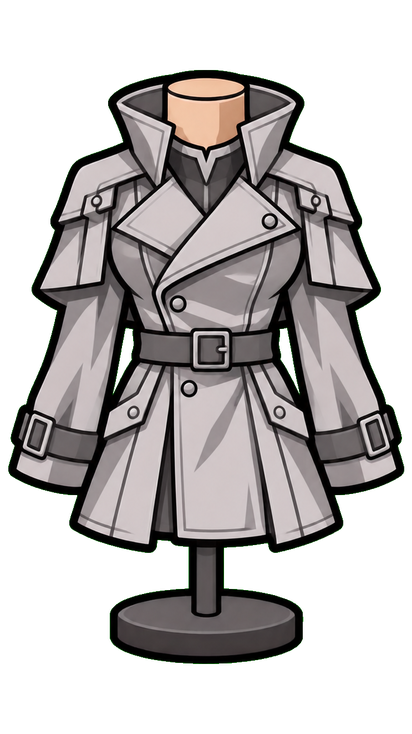
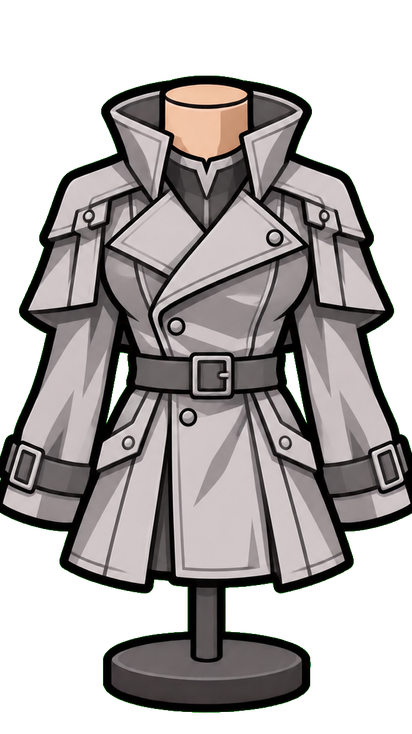
시지프 재단대: 새 옷 그림의 마네킹 크기·받침대 위치를 받침대 폭 기준으로 일정하게 맞춤

diff --git a/tools/sis-worn.py b/tools/sis-worn.py
@@ -8,6 +8,7 @@ from collections import deque
 from PIL import Image
 import numpy as np
 W,H=412,734
+BASE_W,BASE_Y=190,700   # 받침대 폭(픽셀), 받침대 바닥 높이
 def load(p):
     a=np.array(Image.open(p).convert('RGB')).astype(int)
     r,g,b=a[...,0],a[...,1],a[...,2]
@@ -32,7 +33,15 @@ def main(src,dst):
         beige=(sat>=0.18)&(r>b+30)&~green
         if beige.sum()<500:print(n,'마네킹(베이지)이 안 보여 건너뜀');continue
         h,w=green.shape
-        x0,y0,x1,y1=bbox(green);box=fit(x0,y0,x1,y1)
+        x0,y0,x1,y1=bbox(green)
+        # 마네킹 크기를 일정하게: 받침대(진한 회색) 폭을 기준으로 배율을 정하고, 받침대 바닥·가운데를 같은 자리에 둔다
+        dark=(~green)&(sat<0.18)&(mx<=108)&(mx>30)
+        low=dark[int(y0+(y1-y0)*0.78):y1+1]
+        rw=low.sum(1);bw=int(rw.max());ys_=np.where(rw>bw*0.5)[0]
+        by=int(y0+(y1-y0)*0.78)+int(ys_.max());bxs=np.where(low[ys_.max()-2:ys_.max()+1].any(0))[0]
+        bxs=np.where(low[int(ys_.min()):int(ys_.max())+1].any(0))[0];bcx=(bxs.min()+bxs.max())/2;bw=bxs.max()-bxs.min()
+        k=BASE_W/bw   # 원본 1픽셀 = 결과 k픽셀
+        cw,ch=W/k,H/k;box=(int(bcx-cw/2),int(by-(BASE_Y)/k),int(bcx+cw/2),int(by-(BASE_Y)/k+ch))
         bmax=int(np.where(beige)[0].max())
         gray=(~green)&(sat<0.18)&(mx>108)   # 옷의 밝은 회색(진한 회색 봉·받침대·외곽선·검은 띠는 제외)
         near=np.array(Image.fromarray((beige*255).astype('uint8'),'L').filter(__import__('PIL.ImageFilter',fromlist=['x']).MaxFilter(9)))>127
